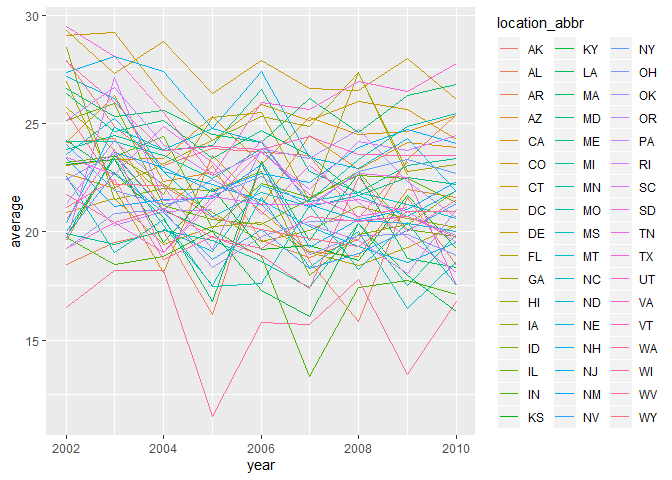
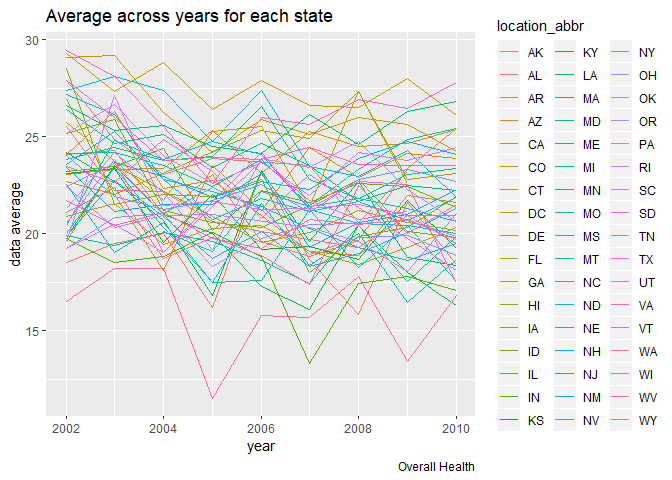
Final

diff --git a/p8105_hw3_bl2789.md b/p8105_hw3_bl2789.md
@@ -7,6 +7,51 @@ Bingkun Luo
 
 ## a
 
+  - The instacart data set should contain 1384617 observations and 15
+    variables. and the type of varibles are listed below
+
+<!-- end list -->
+
+``` r
+data("instacart")
+str(instacart)
+```
+
+    ## Classes 'tbl_df', 'tbl' and 'data.frame':    1384617 obs. of  15 variables:
+    ##  $ order_id              : int  1 1 1 1 1 1 1 1 36 36 ...
+    ##  $ product_id            : int  49302 11109 10246 49683 43633 13176 47209 22035 39612 19660 ...
+    ##  $ add_to_cart_order     : int  1 2 3 4 5 6 7 8 1 2 ...
+    ##  $ reordered             : int  1 1 0 0 1 0 0 1 0 1 ...
+    ##  $ user_id               : int  112108 112108 112108 112108 112108 112108 112108 112108 79431 79431 ...
+    ##  $ eval_set              : chr  "train" "train" "train" "train" ...
+    ##  $ order_number          : int  4 4 4 4 4 4 4 4 23 23 ...
+    ##  $ order_dow             : int  4 4 4 4 4 4 4 4 6 6 ...
+    ##  $ order_hour_of_day     : int  10 10 10 10 10 10 10 10 18 18 ...
+    ##  $ days_since_prior_order: int  9 9 9 9 9 9 9 9 30 30 ...
+    ##  $ product_name          : chr  "Bulgarian Yogurt" "Organic 4% Milk Fat Whole Milk Cottage Cheese" "Organic Celery Hearts" "Cucumber Kirby" ...
+    ##  $ aisle_id              : int  120 108 83 83 95 24 24 21 2 115 ...
+    ##  $ department_id         : int  16 16 4 4 15 4 4 16 16 7 ...
+    ##  $ aisle                 : chr  "yogurt" "other creams cheeses" "fresh vegetables" "fresh vegetables" ...
+    ##  $ department            : chr  "dairy eggs" "dairy eggs" "produce" "produce" ...
+    ##  - attr(*, "spec")=
+    ##   .. cols(
+    ##   ..   order_id = col_integer(),
+    ##   ..   product_id = col_integer(),
+    ##   ..   add_to_cart_order = col_integer(),
+    ##   ..   reordered = col_integer(),
+    ##   ..   user_id = col_integer(),
+    ##   ..   eval_set = col_character(),
+    ##   ..   order_number = col_integer(),
+    ##   ..   order_dow = col_integer(),
+    ##   ..   order_hour_of_day = col_integer(),
+    ##   ..   days_since_prior_order = col_integer(),
+    ##   ..   product_name = col_character(),
+    ##   ..   aisle_id = col_integer(),
+    ##   ..   department_id = col_integer(),
+    ##   ..   aisle = col_character(),
+    ##   ..   department = col_character()
+    ##   .. )
+
 ``` r
 aisle = instacart%>%
         group_by(aisle)%>%
@@ -38,17 +83,21 @@ ggplot(aisle_10k,aes(x = reorder(aisle,count), y = count))+
 
 ![](p8105_hw3_bl2789_files/figure-gfm/unnamed-chunk-2-1.png)<!-- -->
 
+  - For the products ordered more than 10,000 times,fresh vegetables and
+    fruits are the most popular in the instacart.
+
 ## c
 
 ``` r
 pop_items = instacart %>% 
             filter(aisle == "baking ingredients"|aisle == "dog food care"|aisle ==                  "packaged vegetables fruits")%>%
             group_by(aisle,product_name)%>%
-            summarize(n()) %>%
-            top_n(3)
+            summarize(count =n()) %>%
+            top_n(3)%>%
+            arrange(desc(count))
 ```
 
-    ## Selecting by n()
+    ## Selecting by count
 
 ``` r
 pop_items
@@ -56,22 +105,30 @@ pop_items
 
     ## # A tibble: 9 x 3
     ## # Groups:   aisle [3]
-    ##   aisle                     product_name                              `n()`
+    ##   aisle                     product_name                              count
     ##   <chr>                     <chr>                                     <int>
-    ## 1 baking ingredients        Cane Sugar                                  336
-    ## 2 baking ingredients        Light Brown Sugar                           499
-    ## 3 baking ingredients        Pure Baking Soda                            387
-    ## 4 dog food care             Organix Chicken & Brown Rice Recipe          28
-    ## 5 dog food care             Small Dog Biscuits                           26
-    ## 6 dog food care             Snack Sticks Chicken & Rice Recipe Dog T~    30
-    ## 7 packaged vegetables frui~ Organic Baby Spinach                       9784
-    ## 8 packaged vegetables frui~ Organic Blueberries                        4966
-    ## 9 packaged vegetables frui~ Organic Raspberries                        5546
+    ## 1 packaged vegetables frui~ Organic Baby Spinach                       9784
+    ## 2 packaged vegetables frui~ Organic Raspberries                        5546
+    ## 3 packaged vegetables frui~ Organic Blueberries                        4966
+    ## 4 baking ingredients        Light Brown Sugar                           499
+    ## 5 baking ingredients        Pure Baking Soda                            387
+    ## 6 baking ingredients        Cane Sugar                                  336
+    ## 7 dog food care             Snack Sticks Chicken & Rice Recipe Dog T~    30
+    ## 8 dog food care             Organix Chicken & Brown Rice Recipe          28
+    ## 9 dog food care             Small Dog Biscuits                           26
+
+  - The top 3 best sells among packaged vegetables fruits are all
+    organic foods, including Spinach, Raspberries, blueberries.
+  - The top 3 baking ingredients is Light Brown Bugar,Pure Baking Soda
+    and Cane Sugar.
+  - The top 3 dog fod is Snack Sticks Chicken & Rice Recipe Dog
+    Treats,Organix Chicken & Brown Rice Recipe and Small Dog Biscuits.
 
 ## d
 
 ``` r
 library(data.table)
+
 Ordered_time_apple = instacart%>%
               filter(department == "produce")%>%
               filter(product_name %like% "Pink Lady")%>%
@@ -98,6 +155,11 @@ pivot_wider(Order,names_from = order_dow,values_from = mean_hours)
     ## 1 Pink Lady Apple   13.9  12.3  12.4  13.7  12.6  13.1  13.4
     ## 2 Coffee Ice Cream  13.4  14.3  14.4  14.3  14.5  13.4  14.4
 
+  - People are most likely to buy Pink lady apple arould 13:00 and
+    Coffee Ice cream at 14:00 in each day of the week, and also the 0
+    stands for Sunday, 1 for Monday,2 for Tuesday and etc. still 6 to
+    Saturday.
+
 # Problem 2
 
 ## Data cleaning
@@ -108,13 +170,13 @@ brfss_smart = brfss_smart2010%>%
                   select(location_abbr = locationabbr,location_desc = locationdesc,   resp_id = respid,everything())%>%
                   filter(topic == "Overall Health")
 
-my_levels = c("Excellent","Very good","Good","Fair","Poor")
+my_levels = c("Poor","Fair","Good","Very good","Excellent")
 response_adj = factor(pull(brfss_smart,response),levels = my_levels)
                   
 brfss = brfss_smart%>%
         mutate(response_adj)%>%
         select(response_adj,everything(),-response)%>%
-        arrange(desc(response_adj))
+        arrange(response_adj)
 ```
 
 ## a
@@ -147,16 +209,25 @@ subset = brfss%>%
          select(year,location_abbr,data_value)%>%
          group_by(year,location_abbr)%>%
          mutate(average = mean(data_value))%>%
+         drop_na()%>%
          select(-data_value)%>%
          distinct() 
 
 ggplot(subset,aes(x=year,y=average,col=location_abbr))+ 
-  geom_line(aes(group = location_abbr))
+  geom_line(aes(group = location_abbr))+
+  labs(
+    title = "Average across years for each state",
+    x = "year",
+    y = "data average",
+    caption = "Overall Health") 
 ```
 
-    ## Warning: Removed 3 rows containing missing values (geom_path).
-
 ![](p8105_hw3_bl2789_files/figure-gfm/unnamed-chunk-7-1.png)<!-- -->
+
+  - Since there are 51 states here the color is a little hard for me to
+    distinguish from each other. The trend shows that overall health in
+    Execent has been decreased across states. And at year 2005, we can
+    observe a extreme decrease.
 
 ## c
 
@@ -201,6 +272,11 @@ grid.arrange(plot_2006, plot_2010, nrow = 2)
 
 ![](p8105_hw3_bl2789_files/figure-gfm/unnamed-chunk-8-1.png)<!-- -->
 
+  - The graph shows that people claim to be *Very good* or *good* are
+    actully perform better than excellent in both year 2006 and 2010,
+    and actually they are getting better in more recent year in the New
+    York area, as the upper limit increases.
+
 # Problem 3
 
 ## a
@@ -224,6 +300,10 @@ accel_data =
 
   - There are 50400 observations and 7 variables, including week,
     day\_id, day, weekday, minute, activity\_counts, minute\_number.
+
+weekday is a binary variable that I created as identifier and the
+minute\_number is the integer for activities at nth minute. week range
+from 1 to 5 in this study.
 
 ## b
 
@@ -269,9 +349,15 @@ ggplot(aggregate_day,aes(x=week,y=sum_of_day,fill = day_adj))+
     caption = "accel_data") 
 ```
 
-![](p8105_hw3_bl2789_files/figure-gfm/unnamed-chunk-10-1.png)<!-- --> \*
-Are any trends
-apparent?
+![](p8105_hw3_bl2789_files/figure-gfm/unnamed-chunk-10-1.png)<!-- -->
+
+  - Are any trends apparent?
+  - Week four and five contribute the lowest activity on Saturday, which
+    consider something we should look into.
+
+Otherwise, the daily activity is acutally random from records and there
+is no certain pattern to look when compiling minute activities to
+days.
 
 ## c
 
@@ -294,3 +380,15 @@ ggplot(accel, aes(x=minute_number,y=activity_counts,color = day_adj)) +
 ```
 
 ![](p8105_hw3_bl2789_files/figure-gfm/unnamed-chunk-11-1.png)<!-- -->
+
+  - For Thursday, the most freqent activity is on the 400th mintue which
+    is around 6-7 am
+
+  - For Monday Wednesday and Friday, the peak is observed at 1250th
+    minute, which is around 8-9 pm.
+
+  - For Saturday the most freqent activity is around 1000th and 1250th
+    mintue, which is 4-9 pm.
+
+  - For Sunday the most freqent activity is around 700th mintue, which
+    is lunch time 11am-12pm.
